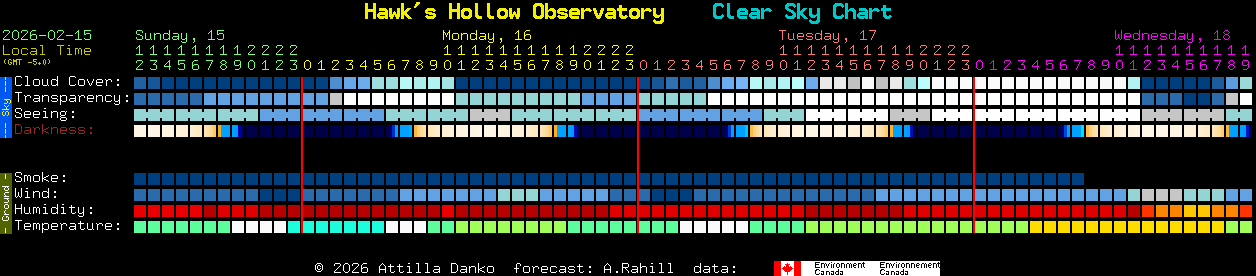
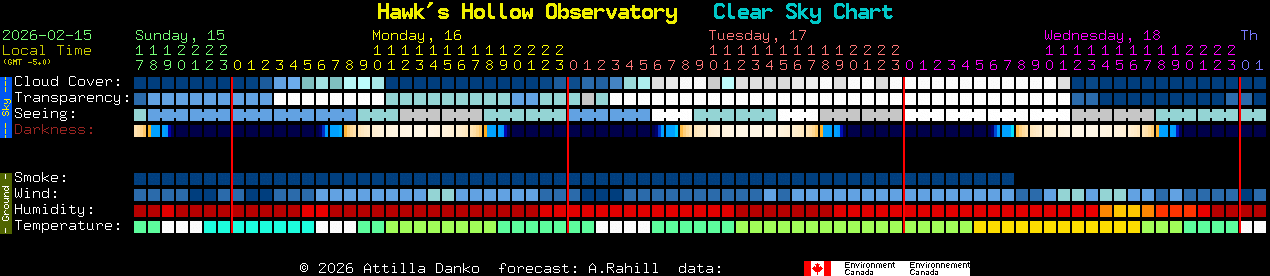
Full system update

diff --git a/README.md b/README.md
@@ -1,65 +1,57 @@
-===============================================================================
-                    SUMNER GUARD: OBSERVATORY HUD SYSTEM 
-                          OFFICIAL TECHNICAL MANUAL
-===============================================================================
+=====================================================
+    SUMNER GUARD: OBSERVATORY HUD SYSTEM
+          OFFICIAL SETUP & INSTALLATION
+=====================================================
 
-1. SYSTEM OVERVIEW
-------------------
-Sumner Guard is a specialized Raspberry Pi 5 based Head-Up Display (HUD) 
-designed for astronomical observatory management. It provides real-time 
-environmental monitoring, sky imaging, and telescope hardware control.
+1. PREREQUISITES (Do these first!)
+-----------------------------------------------------
+* Hardware Wiring (Pi 5):
+  - ANEMOMETER: Brown (Signal) -> GPIO 4 | Blue (GND) -> Pin 9
+  - RAIN SENSOR: Signal -> GPIO 18
+  - I2C SENSORS: SDA -> GPIO 2 | SCL -> GPIO 3
 
-CORE FEATURES:
-- Real-time Allsky camera feed integration.
-- Dynamic NWS Weather Radar with dark-mode optimization.
-- **DYNAMIC LOCATION CLOCK**: Automatically fetches the ClearDarkSky clock 
-  and forecast chart based on your saved Zip Code.
-- Sensor telemetry (Sky Temp, Ambient, Humidity, Wind, Rain, Pressure).
-- One-touch telescope control (INDIGO Sky, Imager, Seestar Mirroring).
-- Google Sheets integration for long-term wind data logging.
-- 1,000-hour Maintenance/Cleaning reminder system.
+* Enable I2C:
+  - Run: sudo raspi-config
+  - Navigate to: Interface Options -> I2C -> Yes
+  - Finish and Exit.
 
-2. HARDWARE WIRING SPECIFICATIONS (Raspberry Pi 5)
---------------------------------------------------
+2. ESSENTIAL FILE LIST (Clean up your folder!)
+-----------------------------------------------------
+Keep ONLY these files in /home/pi/allsky_guard to avoid conflicts:
 
-ANEMOMETER (Wind Speed):
-- **Brown Wire (Signal)**: GPIO 4 (Physical Pin 7)
-- **Blue Wire (Ground)**:  GND (Physical Pin 9)
-* Note: Software enables internal pull-up; no external resistor required.
+- hud.py              (Main Dashboard)
+- install.sh          (Setup Script)
+- get_radar.py        (Sync Engine)
+- sensor_worker.py    (Primary Data Collector)
+- guard.py            (Connection Monitor)
+- master_monitor.py   (Safety Engine)
+- close_dome.sh       (Hardware Relay Trigger)
+- sumner_sync.service (Systemd automation)
+- sumner_sync.timer   (Hourly schedule)
 
-BME280 (Ambient Temp/Hum/Pres) & MLX90614 (Sky Temp):
-- VCC: 3.3V (Physical Pin 1)
-- GND: Ground (Physical Pin 6)
-- SDA: GPIO 2 (Physical Pin 3)
-- SCL: GPIO 3 (Physical Pin 5)
+*NOTE: You can delete update_sensors.py, wind_sensor.py, and 
+rain_watcher.py as they are now merged into sensor_worker.py.
 
-RAIN SENSOR:
-- Signal: GPIO 17 (Physical Pin 11)
-- GND:    Physical Pin 14
+3. GITHUB INSTALLATION COMMANDS
+-----------------------------------------------------
+Open your terminal and run these in order:
 
-3. DYNAMIC LOCATION & SYNC
---------------------------
-The HUD no longer relies on hardcoded image links for specific cities. 
+cd /home/pi
+git clone https://github.com/bsbachert/Sumner_Guard.git allsky_guard
+cd allsky_guard
+chmod +x install.sh
+./install.sh
 
-TO SET YOUR LOCATION:
-1. Open the **MAINT / DOSSIER** window on the HUD.
-2. Enter your **ZIP CODE** in the provided field.
-3. Click **SAVE**.
-4. Click **FORCE SYNC**. 
+4. POST-INSTALLATION
+-----------------------------------------------------
+1. REBOOT the Pi: sudo reboot
+2. Launch HUD (if it doesn't auto-boot).
+3. Open MAINT / DOSSIER.
+4. Enter Radar ID (e.g., KTBW) and ClearSky ID (e.g., TampFL).
+5. Click SAVE then click SYNC.
 
-The system will use your Zip Code to calculate coordinates and download the 
-exact astronomical clock and forecast chart for your position.
-
-4. MAINTENANCE & ALERTS
------------------------
-- **Cleaning Reminder**: A popup will trigger every 1,000 operational hours 
-  to remind you to clean the dome and sensors.
-- **Resetting**: After cleaning, use the **RESET** button in the Dossier 
-  window to clear the timer back to zero.
-
-5. TROUBLESHOOTING
-------------------
-- **Missing Clock**: Ensure the `geopy` library is installed (`pip3 install geopy`).
-- **Radar Fail**: Verify your 4-letter Station ID in the Dossier (e.g., KGRR).
-- **Sensors "--"**: Check I2C wiring or run `sudo i2cdetect -y 1`.
-===============================================================================
+5. MAINTENANCE LOGIC
+-----------------------------------------------------
+- Cleaning Alert: Triggers automatically at 1,000 hours.
+- Resetting: Use the RESET button in the Dossier after cleaning.
+=====================================================
